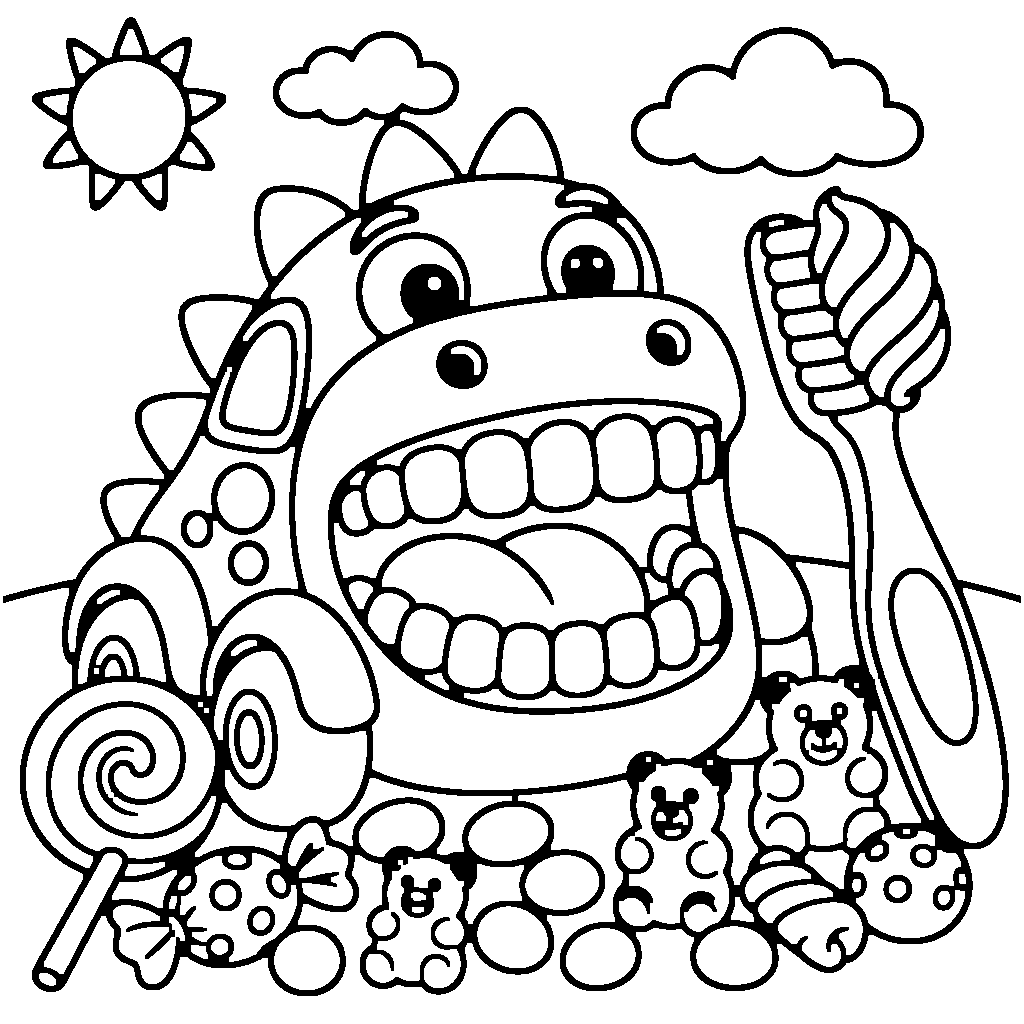
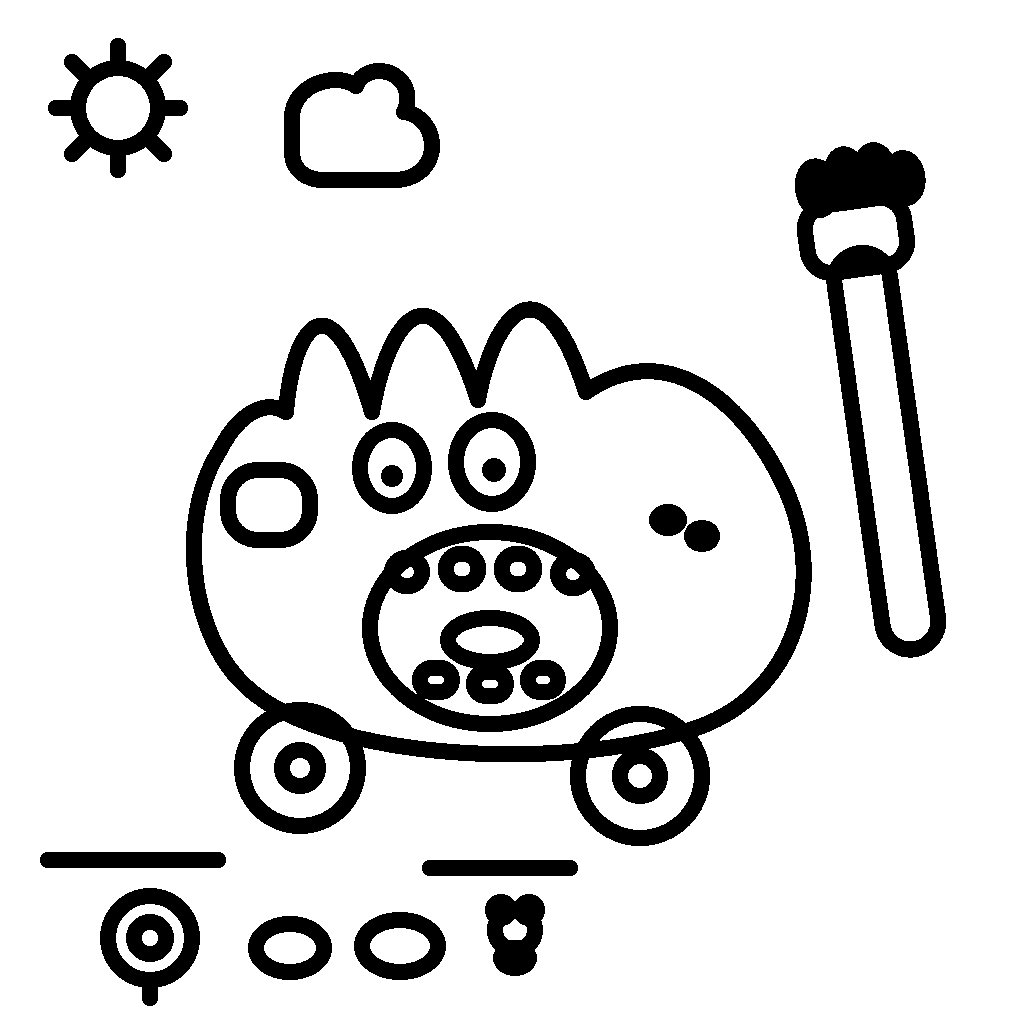
fix(games): 把恐龍車多多著色線稿改成大色塊
小朋友看著密密麻麻的牙齒和糖果不知道從哪裡塗。改成圓角大區域，舊草稿跟著線稿世代失效。

diff --git a/scripts/lib/coloring-lineart-assets.test.ts b/scripts/lib/coloring-lineart-assets.test.ts
@@ -34,6 +34,51 @@ describe("coloring lineart assets contract", () => {
     }
   });
 
+  test("恐龍車多多線稿是大色塊，小格不再鋪滿整頁", async () => {
+    const page = COLORING_PAGES.find((item) => item.id === "char-恐龍車多多");
+    expect(page).toBeTruthy();
+    const path = join(PUBLIC_DIR, page!.lineArtSrc.replace(/^\//, ""));
+    const { data, info } = await sharp(path).greyscale().raw().toBuffer({ resolveWithObject: true });
+    const width = info.width;
+    const height = info.height;
+    const ink = new Uint8Array(width * height);
+    for (let i = 0; i < ink.length; i += 1) ink[i] = (data[i] ?? 255) < 128 ? 1 : 0;
+
+    const labels = new Int32Array(ink.length);
+    let regions = 0;
+    const stack: number[] = [];
+    for (let start = 0; start < ink.length; start += 1) {
+      if (ink[start] || labels[start]) continue;
+      let touchesBorder = false;
+      labels[start] = 1;
+      stack.push(start);
+      while (stack.length > 0) {
+        const idx = stack.pop()!;
+        const x = idx % width;
+        const y = (idx - x) / width;
+        if (x === 0 || y === 0 || x === width - 1 || y === height - 1) touchesBorder = true;
+        for (const [dx, dy] of [
+          [1, 0],
+          [-1, 0],
+          [0, 1],
+          [0, -1],
+        ] as const) {
+          const nx = x + dx;
+          const ny = y + dy;
+          if (nx < 0 || ny < 0 || nx >= width || ny >= height) continue;
+          const next = ny * width + nx;
+          if (ink[next] || labels[next]) continue;
+          labels[next] = 1;
+          stack.push(next);
+        }
+      }
+      if (!touchesBorder) regions += 1;
+    }
+
+    // 舊線稿約 156 個內白區；大色塊版本應一眼分得出車身、嘴巴、輪子。
+    expect(regions).toBeLessThanOrEqual(50);
+  });
+
   test("遊樂園封面 cover.webp 為 1448×1086 webp", async () => {
     const cover = join(PUBLIC_DIR, "games/v2/coloring-book/cover.webp");
     expect(existsSync(cover)).toBe(true);

diff --git a/scripts/lib/coloring-ai-prompts.ts b/scripts/lib/coloring-ai-prompts.ts
@@ -6,7 +6,10 @@ const SHARED_LINE_RULES =
   "no transparency, no shading, no clay texture, no gray tones, no color fills. " +
   "Every contour must be fully closed so each region can be flood-filled. " +
   "No text, letters, or numbers anywhere. " +
-  "Keep characters exactly on-model with the reference image(s): same proportions, face, and distinctive features.";
+  "Keep characters exactly on-model with the reference image(s): same proportions, face, and distinctive features. " +
+  "Preschool coloring page for ages 3 to 6: round, soft outlines, generous white space, and large regions a small hand can fill. " +
+  "A row of teeth is 4 to 6 big teeth, brush bristles are a few blobs, and a pile of candy is at most four large sweets. " +
+  "Do not draw grids of tiny circles or individual bristles.";
 
 /** 角色定裝頁：保大型道具，只刪紋理與微人群。 */
 export const CHARACTER_LINE_ART_PROMPT =
@@ -44,6 +47,7 @@ export const COLORING_LINEART_REVIEW_CHECKLIST: readonly string[] = [
   "是否擅自改成無關戶外太陽雲場（場景頁嚴禁）",
   "角色臉／車身定裝是否 on-model（比例、眼睛、編號圈等）",
   "輪廓是否閉合、大區塊可塗（gate 已過仍須目視）",
+  "小色塊是否少到小朋友一眼知道從哪裡塗（牙齒、刷毛、糖果不要碎成一格格）",
 ] as const;
 
 export function formatColoringReviewChecklist(): string {

diff --git a/scripts/lib/coloring-ai-prompts.test.ts b/scripts/lib/coloring-ai-prompts.test.ts
@@ -32,6 +32,9 @@ describe("coloring AI prompts", () => {
     expect(joined).toContain("主角");
     expect(joined).toContain("地標");
     expect(joined).toContain("太陽雲");
+    expect(joined).toContain("小朋友");
+    expect(CHARACTER_LINE_ART_PROMPT).toMatch(/ages 3 to 6/i);
+    expect(SCENE_LINE_ART_PROMPT).toMatch(/4 to 6 big teeth/i);
     expect(formatColoringReviewChecklist()).toContain("人工審核清單");
   });
 });

diff --git a/lib/coloring/tools.ts b/lib/coloring/tools.ts
@@ -59,7 +59,7 @@ export function coloringDraftKey(pageId: string): string {
 }
 
 /** 線稿世代；重生／替換 line.png 時 +1，讓舊草稿失效（舊塗鴉對不上新線稿）。 */
-export const COLORING_LINEART_REV = 2;
+export const COLORING_LINEART_REV = 3;
 
 /** IndexedDB 草稿 key（綁線稿世代）。 */
 export function coloringDraftStorageKey(pageId: string): string {

diff --git a/CHANGELOG.md b/CHANGELOG.md
@@ -6,6 +6,8 @@
 
 ### Changed
 
+- **恐龍車多多著色線稿**：改成圓角大色塊。車身、眼睛、嘴巴、輪子各自是一大區；牙齒收成上四下三，牙刷是一支，糖果只留棒棒糖、兩顆糖和一隻小熊。舊著色草稿會對不上新線稿，自動失效。
+
 - **遊樂園手機首屏**：著色本全寬縮圖壓到 156px，390×844 看得到三個遊戲名字；海報仍留站牌和整台車。
 
 - **遊樂園首圖**：桌面頂欄膠囊與海報改成同寬，中間留約 40px。手機上海報加高並下移取景，站牌和整台車不再被切掉。
